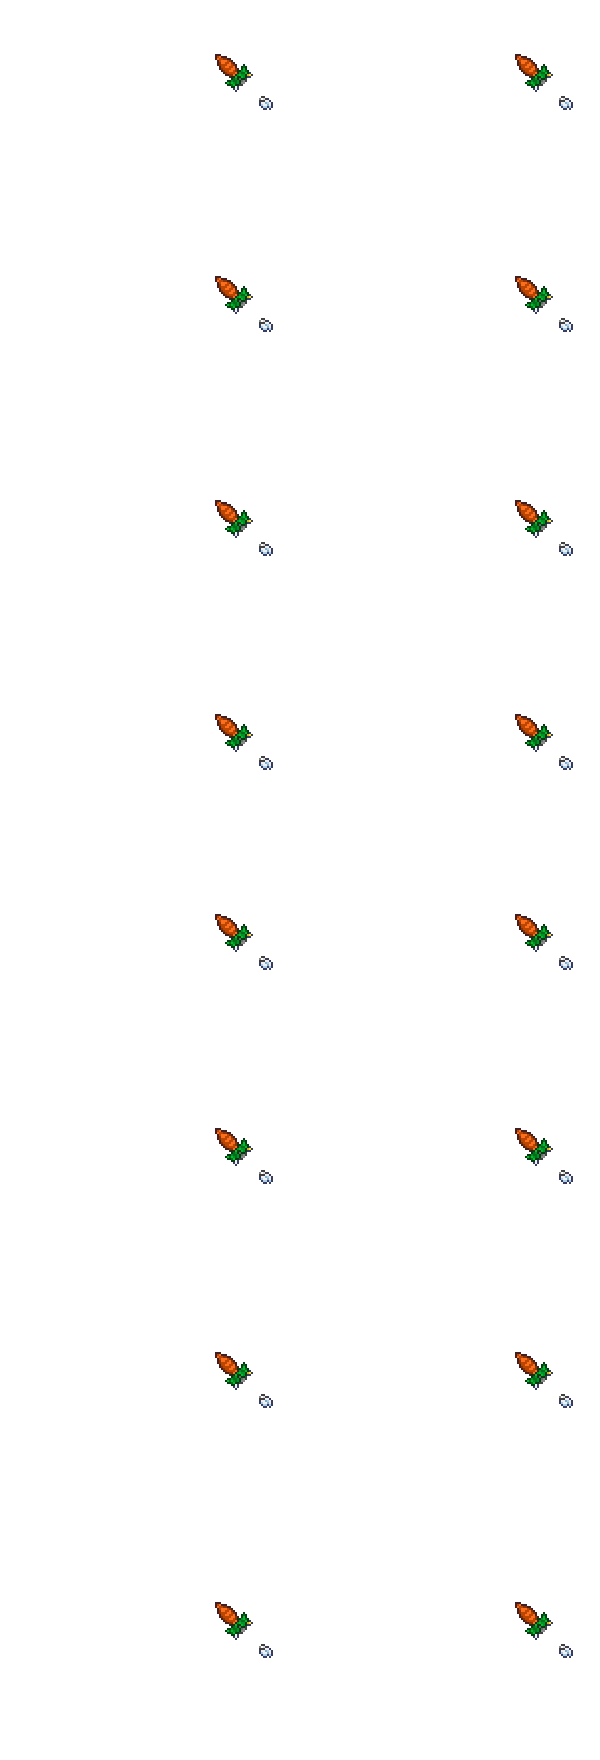
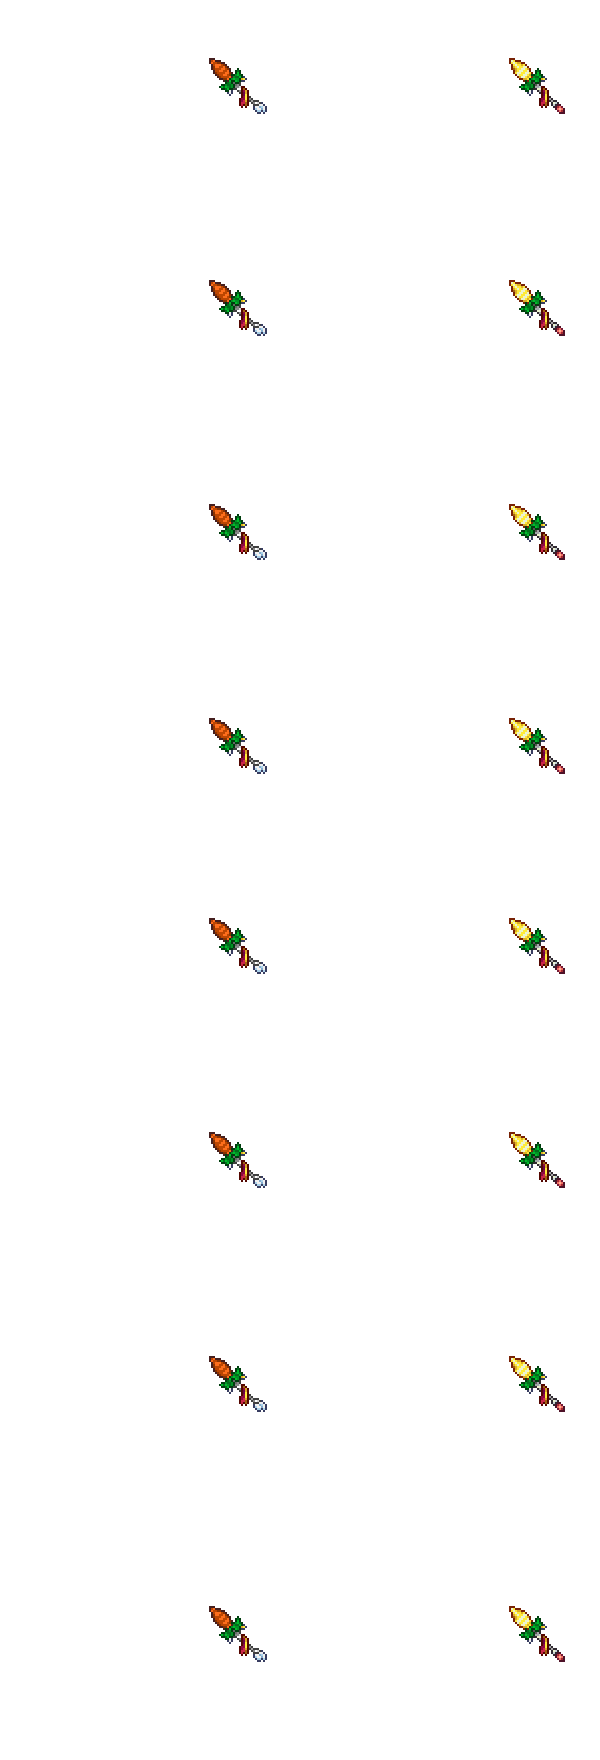
mr rabbit

diff --git a/_Content/Bunny/__Hardmode/NPCs/__BossRajahRabbit/RajahRabbit.cs b/_Content/Bunny/__Hardmode/NPCs/__BossRajahRabbit/RajahRabbit.cs
@@ -123,6 +123,7 @@ namespace AAModClassic._Content.Bunny.__Hardmode.NPCs.__BossRajahRabbit
 
         private Texture2D ArmTex;
         public int WeaponFrame = 0;
+        public Projectile CurrentlyHeldProj = null;
         public Vector2 MovePoint;
         public bool SelectPoint = false;
 
@@ -435,7 +436,7 @@ namespace AAModClassic._Content.Bunny.__Hardmode.NPCs.__BossRajahRabbit
                 {
                     internalAI[3] = 0;
                     NPC.ai[2] = 0;
-                    if (ModSupport.GetMod("ThoriumMod") != null && Main.rand.NextBool(7))
+                    if (ModSupport.GetMod("ThoriumMod") != null && Main.rand.NextBool(1)) //TODO: change back to 7
                     {
                         NPC.ai[3] = 7;
                     }
@@ -630,9 +631,54 @@ namespace AAModClassic._Content.Bunny.__Hardmode.NPCs.__BossRajahRabbit
                 {
                     if (!AAGlobalProjectile.AnyProjectiles(ModContent.ProjectileType<RajahRabbit_CarrotFarmer>()))
                     {
-                        Projectile.NewProjectile(NPC.GetSource_FromThis(), NPC.Center.X, NPC.Center.Y, 0f, 0f, ModContent.ProjectileType<RajahRabbit_CarrotFarmer>(), damage, 3f, Main.myPlayer, NPC.whoAmI);
+                        CurrentlyHeldProj = Projectile.NewProjectileDirect(NPC.GetSource_FromThis(), NPC.Center, Vector2.Zero, ModContent.ProjectileType<RajahRabbit_CarrotFarmer>(), damage, 3f, Main.myPlayer, NPC.whoAmI);
                         NPC.netUpdate = true;
                     }
+
+                    if (CurrentlyHeldProj != null)
+                    {
+                        CurrentlyHeldProj.Center = NPC.Center + NPC.velocity;
+                        CurrentlyHeldProj.Center += new Vector2(100, -16);
+                        if (NPC.spriteDirection == 1)
+                            CurrentlyHeldProj.Center += new Vector2(-200, 0);
+
+                        if (internalAI[1] == 0) // account for anims
+                        {
+                            CurrentlyHeldProj.position.Y -= 26;
+                        }
+                        else if (NPC.ai[0] == 0f)
+                        {
+                            switch (NPC.frame.Y)
+                            {
+                                case 0:
+                                    break;
+                                case 220:
+                                    CurrentlyHeldProj.position.Y += 2;
+                                    break;
+                                case 220 * 2:
+                                    CurrentlyHeldProj.position.Y += 6;
+                                    break;
+                                case 220 * 3:
+                                    break;
+                                case 220 * 4:
+                                    CurrentlyHeldProj.position.Y -= 20;
+                                    break;
+                                case 220 * 5:
+                                    CurrentlyHeldProj.position.Y -= 26;
+                                    break;
+                                case 220 * 6:
+                                    CurrentlyHeldProj.position.Y -= 22;
+                                    break;
+                                case 220 * 7:
+                                    CurrentlyHeldProj.position.Y += 8;
+                                    break;
+                            }
+                        }
+                    }
+                }
+                else // clear everything when not attacking
+                {
+                    CurrentlyHeldProj = null;
                 }
             }
 
@@ -1201,16 +1247,16 @@ namespace AAModClassic._Content.Bunny.__Hardmode.NPCs.__BossRajahRabbit
             Rectangle WeaponRectangle = new Rectangle(0, WeaponFrame, 300, 220);
             if (WorldTypeSystem.IsWorldOptionEnabled(AAWorldOption.Unofficial) && isSupreme)
                 WeaponRectangle.X = WeaponRectangle.Width;
-            spriteBatch.Draw(ArmTex, NPC.Center - screenPos, WeaponRectangle, drawColor, NPC.rotation, WeaponRectangle.Size() / 2, NPC.scale, NPC.SpriteEffectDirection(), 0);
+            spriteBatch.Draw(ArmTex, NPC.Center - screenPos, WeaponRectangle, drawColor, NPC.rotation, WeaponRectangle.Size() / 2, NPC.scale, NPC.SpriteEffectDirection(true), 0);
 
             // draw self
             //BaseDrawing.DrawTexture(spriteBatch, TextureAssets.Npc[NPC.type].Value, 0, NPC.position, NPC.width, NPC.height, NPC.scale, NPC.rotation, NPC.direction, 8, NPC.frame, drawColor, true);
-            spriteBatch.Draw(TextureAssets.Npc[NPC.type].Value, NPC.Center - screenPos, NPC.frame, drawColor, NPC.rotation, NPC.frame.Size() / 2, NPC.scale, NPC.SpriteEffectDirection(), 0);
+            spriteBatch.Draw(TextureAssets.Npc[NPC.type].Value, NPC.Center - screenPos, NPC.frame, drawColor, NPC.rotation, NPC.frame.Size() / 2, NPC.scale, NPC.SpriteEffectDirection(true), 0);
             
             if (NPC.ai[3] == 6) //If Rabbits Wrath
             {
                 //BaseDrawing.DrawTexture(spriteBatch, ArmTex, 0, NPC.position, NPC.width, NPC.height, NPC.scale, NPC.rotation, NPC.direction, 8, WeaponRectangle, drawColor, true);
-                spriteBatch.Draw(ArmTex, NPC.Center - screenPos, WeaponRectangle, drawColor, NPC.rotation, NPC.frame.Size() / 2, NPC.scale, NPC.SpriteEffectDirection(), 0);
+                spriteBatch.Draw(ArmTex, NPC.Center - screenPos, WeaponRectangle, drawColor, NPC.rotation, NPC.frame.Size() / 2, NPC.scale, NPC.SpriteEffectDirection(true), 0);
             }
 
             if (RageMode)
@@ -1218,23 +1264,23 @@ namespace AAModClassic._Content.Bunny.__Hardmode.NPCs.__BossRajahRabbit
                 int shader = GameShaders.Armor.GetShaderIdFromItemId(ItemID.LivingFlameDye);
                 //BaseDrawing.DrawTexture(spriteBatch, Glowmask.Value, shader, NPC.position, NPC.width, NPC.height, NPC.scale, NPC.rotation, NPC.direction, 8, NPC.frame, Color.White, true);
                 //TODO: shader
-                spriteBatch.Draw(Glowmask.Value, NPC.Center - screenPos, NPC.frame, Color.White, NPC.rotation, NPC.frame.Size() / 2, NPC.scale, NPC.SpriteEffectDirection(), 0);
+                spriteBatch.Draw(Glowmask.Value, NPC.Center - screenPos, NPC.frame, Color.White, NPC.rotation, NPC.frame.Size() / 2, NPC.scale, NPC.SpriteEffectDirection(true), 0);
             }
 
             if (SupremeRageMode)
             {
                 //BaseDrawing.DrawTexture(spriteBatch, Glowmask.Value, 0, NPC.position, NPC.width, NPC.height, NPC.scale, NPC.rotation, NPC.direction, 8, NPC.frame, Main.DiscoColor, true);
-                spriteBatch.Draw(Glowmask.Value, NPC.Center - screenPos, NPC.frame, Main.DiscoColor, NPC.rotation, NPC.frame.Size() / 2, NPC.scale, NPC.SpriteEffectDirection(), 0);
+                spriteBatch.Draw(Glowmask.Value, NPC.Center - screenPos, NPC.frame, Main.DiscoColor, NPC.rotation, NPC.frame.Size() / 2, NPC.scale, NPC.SpriteEffectDirection(true), 0);
                 BaseDrawing.DrawAura(spriteBatch, Glowmask.Value, 0, NPC.position, NPC.width, NPC.height, auraPercent, 1f, 1f, 0f, NPC.direction, 8, NPC.frame, 0f, -5f, Main.DiscoColor);
                 //BaseDrawing.DrawTexture(spriteBatch, SupremeGlowmask.Value, 0, NPC.position, NPC.width, NPC.height, NPC.scale, NPC.rotation, NPC.direction, 8, NPC.frame, Main.DiscoColor, true);
-                spriteBatch.Draw(SupremeGlowmask.Value, NPC.Center - screenPos, NPC.frame, Main.DiscoColor, NPC.rotation, NPC.frame.Size() / 2, NPC.scale, NPC.SpriteEffectDirection(), 0);
+                spriteBatch.Draw(SupremeGlowmask.Value, NPC.Center - screenPos, NPC.frame, Main.DiscoColor, NPC.rotation, NPC.frame.Size() / 2, NPC.scale, NPC.SpriteEffectDirection(true), 0);
                 BaseDrawing.DrawAura(spriteBatch, SupremeGlowmask.Value, 0, NPC.position, NPC.width, NPC.height, auraPercent, 1f, 1f, 0f, NPC.direction, 8, NPC.frame, 0f, -5f, Main.DiscoColor);
                 return false;
             }
             else if (isSupreme)
             {
                 //BaseDrawing.DrawTexture(spriteBatch, SupremeEyes.Value, 0, NPC.position, NPC.width, NPC.height, NPC.scale, NPC.rotation, NPC.direction, 8, NPC.frame, Main.DiscoColor, true);
-                spriteBatch.Draw(SupremeEyes.Value, NPC.Center - screenPos, NPC.frame, Main.DiscoColor, NPC.rotation, NPC.frame.Size() / 2, NPC.scale, NPC.SpriteEffectDirection(), 0);
+                spriteBatch.Draw(SupremeEyes.Value, NPC.Center - screenPos, NPC.frame, Main.DiscoColor, NPC.rotation, NPC.frame.Size() / 2, NPC.scale, NPC.SpriteEffectDirection(true), 0);
             }
 
             return false;

diff --git a/_Content/Bunny/__Hardmode/NPCs/__BossRajahRabbit/RajahRabbit_CarrotFarmer.cs b/_Content/Bunny/__Hardmode/NPCs/__BossRajahRabbit/RajahRabbit_CarrotFarmer.cs
@@ -16,8 +16,8 @@ namespace AAModClassic._Content.Bunny.__Hardmode.NPCs.__BossRajahRabbit
 
         public override void SetDefaults()
         {
-            Projectile.width = 160;
-            Projectile.height = 156;
+            Projectile.width = 188;
+            Projectile.height = 188;
             Projectile.aiStyle = 0;
             Projectile.penetrate = -1;
             Projectile.tileCollide = false;
@@ -45,20 +45,22 @@ namespace AAModClassic._Content.Bunny.__Hardmode.NPCs.__BossRajahRabbit
                 NPC npcBody = Main.npc[(int)Projectile.ai[0]];
                 if (npcBody.type == ModContent.NPCType<RajahRabbit>())
                 {
-                    rajah = (RajahRabbit)npcBody.ModNPC;
+                    rajah = npcBody.ModNPC as RajahRabbit;
                 }
                 else if (npcBody.type == ModContent.NPCType<RajahRabbitA>())
                 {
-                    rajah = (RajahRabbitA)npcBody.ModNPC;
+                    rajah = npcBody.ModNPC as RajahRabbit;
                 }
             }
             if (rajah == null)
                 return;
 
-            if (!rajah.NPC.active || rajah.NPC.life <= 0 || rajah.NPC.ai[3] != 4)
+            if (!rajah.NPC.active || rajah.NPC.life <= 0 || rajah.NPC.ai[3] != 7)
             {
                 Projectile.Kill();
             }
+
+
 
             if (rajah.NPC.direction > 0)
             {
@@ -71,8 +73,8 @@ namespace AAModClassic._Content.Bunny.__Hardmode.NPCs.__BossRajahRabbit
                 Projectile.spriteDirection = -1;
             }
 
-            Projectile.position.X = rajah.WeaponPos.X - 95;
-            Projectile.position.Y = rajah.WeaponPos.Y - 93;
+            //Projectile.position.X = rajah.WeaponPos.X - 95;
+            //Projectile.position.Y = rajah.WeaponPos.Y - 93;
 
             Projectile.ai[1]++;
             if (Projectile.ai[1] >= 16)
